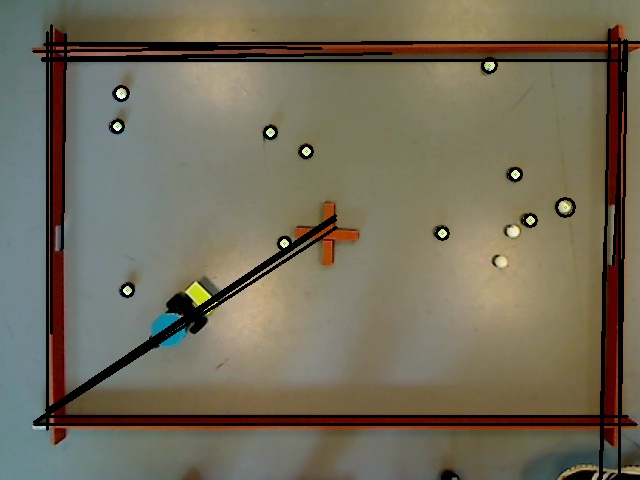
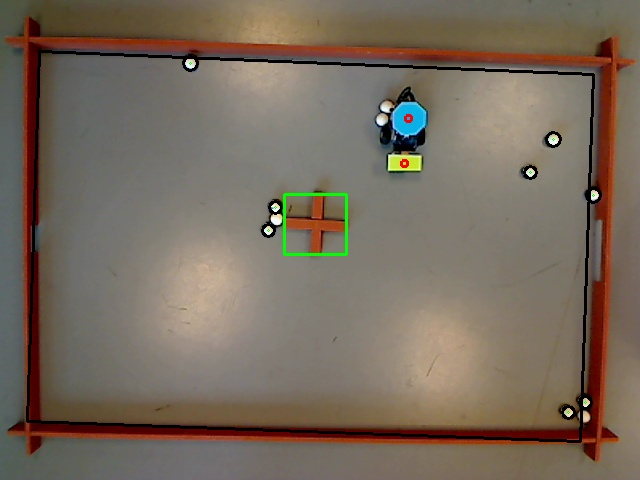
lækkerier

diff --git a/PCFiles/src/imgProcessing/ImgCap.java b/PCFiles/src/imgProcessing/ImgCap.java
@@ -48,10 +48,13 @@ public class ImgCap {
 			webCam.read(image);
 		}
 		/*Picture end*/
+		//img2 for testing purposes
+		Mat image2 = image.clone();
 		
-
 		Mat circles = new Mat();
 		Mat grayImg = new Mat(image.rows(),image.cols(),image.type());
+		Scalar scalarColorB = new Scalar(0,0,0); // black scalar
+		Scalar scalarColorT = new Scalar(0,255,0); //T scalar, initial color = green
 		int rows = image.height();
 		int cols = image.width();
 		int obstacleMinY = rows;
@@ -69,7 +72,7 @@ public class ImgCap {
 				Integer[] tempArr = new Integer[2];
 				tempArr[0] = x;
 				tempArr[1] = y;
-					if (color[0]+100< color[2]) {	
+					if (color[0]+100< color[2] && color[2]-50 > color[1]) {	
 					if (x>100 && x<540 && y>100 && y<380){
 						System.out.println("x: "+x+" y: "+y);
 						if (x< obstacleMinX) {
@@ -109,7 +112,7 @@ public class ImgCap {
         Point2D[] p2DCorners = {new Point2D(0,0), new Point2D(640,0), new Point2D(0,480), new Point2D(640,480)};        
         for( int i = 0; i < linesV.cols(); i++ )
         {
-        	//Line coordinate sets
+        	//Line coordinate sets (frame)
             double[] vec = linesV.get(0, i);
             double x1 = vec[0], 
                    y1 = vec[1],
@@ -118,7 +121,7 @@ public class ImgCap {
             if(((x1 < 75 || x1 > 565) && (y1 < 75 || y1 > 405)) || ((x2 < 75 || x2 > 565) && (y2 < 75 || y2 > 405))) {
                 Point start = new Point(x1, y1);
                 Point end = new Point(x2, y2);
-    		    Core.line( image, start, end, new Scalar(0,0,0),2);
+    		    Core.line( image2, start, end, new Scalar(0,0,0),2); //drawing found lines
     		    for(int j = i+1; j < linesV.cols(); j++ ) {
     	            double[] jvec = linesV.get(0, j);
     	            double x3 = jvec[0], 
@@ -152,34 +155,7 @@ public class ImgCap {
     		    }
             }
         }
-        //obstacle
-//        double[] obstacleLine;
-//        for( int i = 0; i < linesV.cols(); i++ )
-//        {
-//        	//Line coordinate sets
-//            double[] vec = linesV.get(0, i);
-//            double x1 = vec[0], 
-//                   y1 = vec[1],
-//                   x2 = vec[2],
-//                   y2 = vec[3];
-//            if (x1 < 325 && x2 < 370) {
-//            	if(x2> 325 && x1 > 270) {
-//		            Point start = new Point(x1, y1);
-//		            Point end = new Point(x2, y2);
-//				    Core.line( image2, start, end, new Scalar(0,0,0),2);
-//				    obstacleLine = new double[]{x1,y1,x2,y2};
-//            	}
-//            } else if (y1 < 220 && y2 < 270) {
-//            	if(y2 > 230 && y1 > 170 ) {
-//		            Point start = new Point(x1, y1);
-//		            Point end = new Point(x2, y2);
-//				    Core.line( image2, start, end, new Scalar(0,0,0),2);
-//				    obstacleLine = new double[]{x1,y1,x2,y2};
-//            	}
-//            	
-//            }
-//        }
-		//circles finding
+		//circles finding (balls)
 		ArrayList<Point2D> ballSet = new ArrayList<Point2D>();
 		Imgproc.HoughCircles(grayImg, circles, Imgproc.CV_HOUGH_GRADIENT, 1, 15, 10, 20, 3, 10);
 		int radius;
@@ -197,26 +173,40 @@ public class ImgCap {
 	        radius = (int)Math.round(vCircle[2]);
 	
 	        // draw the found circle
-	        Core.circle(image, pt, radius, new Scalar(0,0,0), 2);
-	        Core.circle(image, pt, 1, new Scalar(0,255,0), 0);
+	        Core.circle(image, pt, radius, scalarColorB, 2);
+	        Core.circle(image, pt, 1, scalarColorT, 0);
         }
-		//robot front and back coordinates in P2D
-		Point2D robotF = new Point2D(robotFront[0]/robotFront[2],robotFront[1]/robotFront[2]);
-		Point2D robotB = new Point2D(robotBack[0]/robotBack[2],robotBack[1]/robotBack[2]);
 		//obstacle in P2D
 		Point2D obstacleTopLeft = new Point2D(obstacleMinX,obstacleMinY);
 		Point2D obstacleBottomRight = new Point2D(obstacleMaxX,obstacleMaxY);
+		Core.line(image, new Point(obstacleMinX,obstacleMinY), new Point(obstacleMinX,obstacleMaxY), scalarColorT,2);
+		Core.line(image, new Point(obstacleMinX,obstacleMinY), new Point(obstacleMaxX,obstacleMinY), scalarColorT,2);
+		Core.line(image, new Point(obstacleMaxX,obstacleMaxY), new Point(obstacleMinX,obstacleMaxY), scalarColorT,2);
+		Core.line(image, new Point(obstacleMaxX,obstacleMaxY), new Point(obstacleMaxX,obstacleMinY), scalarColorT,2);
+		
+		//robot front and back coordinates in P2D and drawing on the picture in red
+		scalarColorT = new Scalar(0,0,255);
+		Point2D robotF = new Point2D(robotFront[0]/robotFront[2],robotFront[1]/robotFront[2]);
+		Point2D robotB = new Point2D(robotBack[0]/robotBack[2],robotBack[1]/robotBack[2]);
+		Core.circle(image, new Point(robotF.getX(),robotF.getY()), 3,  scalarColorT,2);
+		Core.circle(image, new Point(robotB.getX(),robotB.getY()), 3,  scalarColorT,2);
+		
 		//Goals in P2D
 		double tempd = (p2DCorners[0].distance(p2DCorners[2])/2)+p2DCorners[0].getY();
-		
 		Point2D topLeftGoal = new Point2D(p2DCorners[0].getX(),tempd-12);
 		Point2D bottomLeftGoal = new Point2D(p2DCorners[0].getX(),tempd+12);
 		tempd = (p2DCorners[1].distance(p2DCorners[3])/2)+p2DCorners[1].getY();
 		Point2D topRightGoal = new Point2D(p2DCorners[1].getX(),tempd-25);
 		Point2D bottomRightGoal = new Point2D(p2DCorners[3].getX(),tempd+25);
         
+		//drawing frame
+		Core.line(image, new Point(p2DCorners[0].getX(),p2DCorners[0].getY()), new Point(p2DCorners[1].getX(),p2DCorners[1].getY()), scalarColorB,2);
+		Core.line(image, new Point(p2DCorners[0].getX(),p2DCorners[0].getY()), new Point(p2DCorners[2].getX(),p2DCorners[2].getY()), scalarColorB,2);
+		Core.line(image, new Point(p2DCorners[3].getX(),p2DCorners[3].getY()), new Point(p2DCorners[1].getX(),p2DCorners[1].getY()), scalarColorB,2);
+		Core.line(image, new Point(p2DCorners[3].getX(),p2DCorners[3].getY()), new Point(p2DCorners[2].getX(),p2DCorners[2].getY()), scalarColorB,2);
         
 		Highgui.imwrite("images\\scrCap.jpg",image);
+		Highgui.imwrite("images\\scrCap2.jpg",image2);
         long endTime = System.nanoTime();
         
 		//test prints
